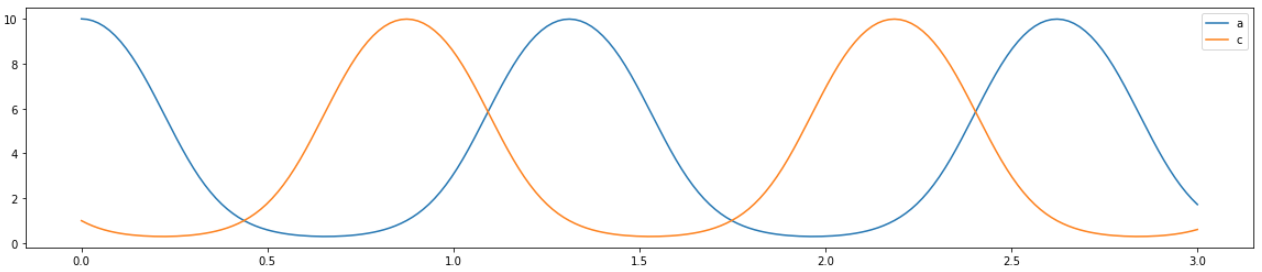
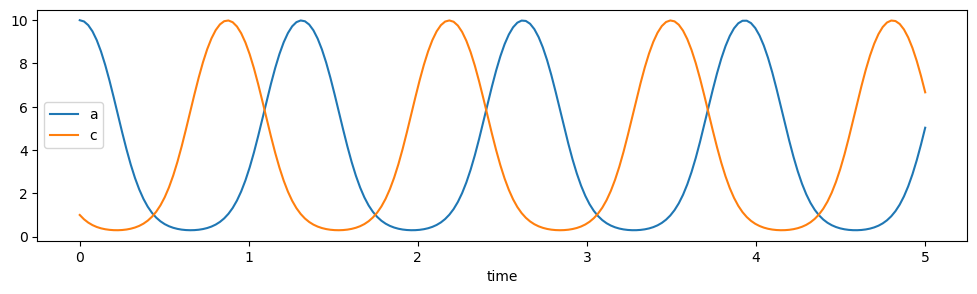
changed image of RPS oscillator

diff --git a/README.md b/README.md
@@ -86,9 +86,9 @@ initial_values = {
     b: 1,
     c: 1,
 }
-t_eval = np.linspace(0, 3, 200)
+t_eval = np.linspace(0, 5, 200)
 
-gpac.plot(odes, initial_values, t_eval=t_eval, figure_size=(20,4), symbols_to_plot=[a,c])
+gpac.plot(odes, initial_values, t_eval=t_eval, figure_size=(12,3), symbols_to_plot=[a,c])
 ```
 
 ![](images/rps-a-c.png)
